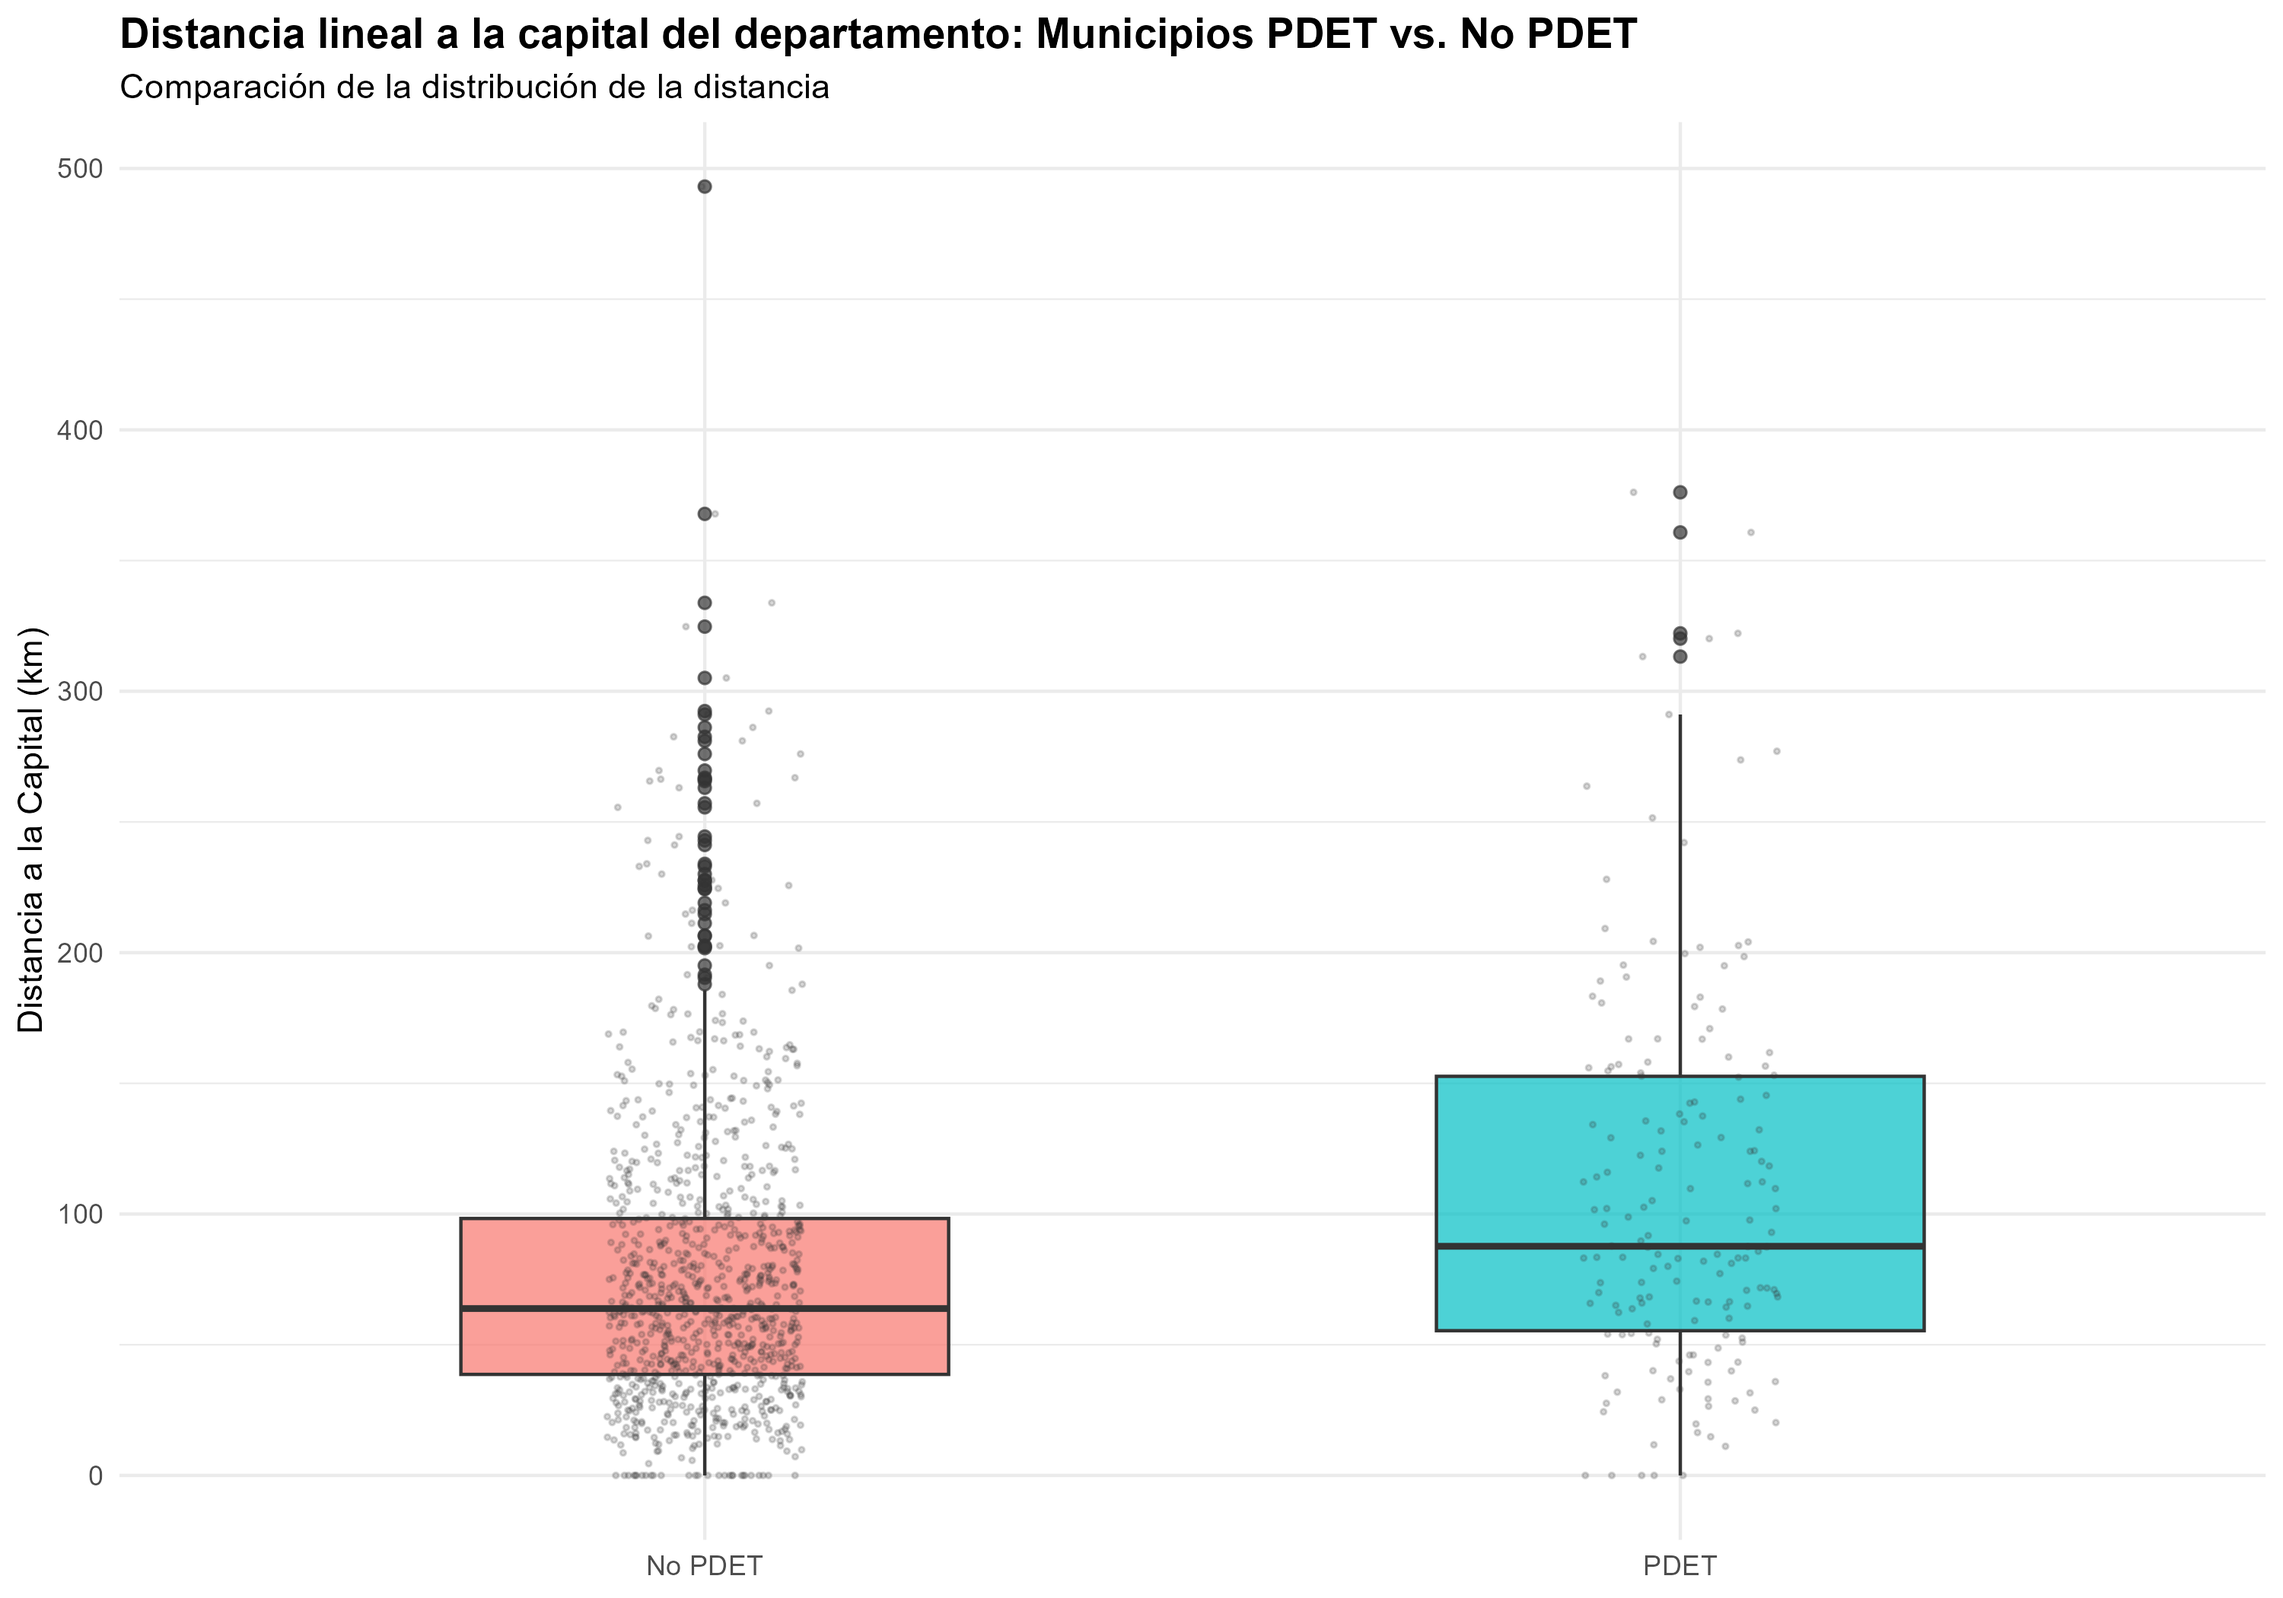
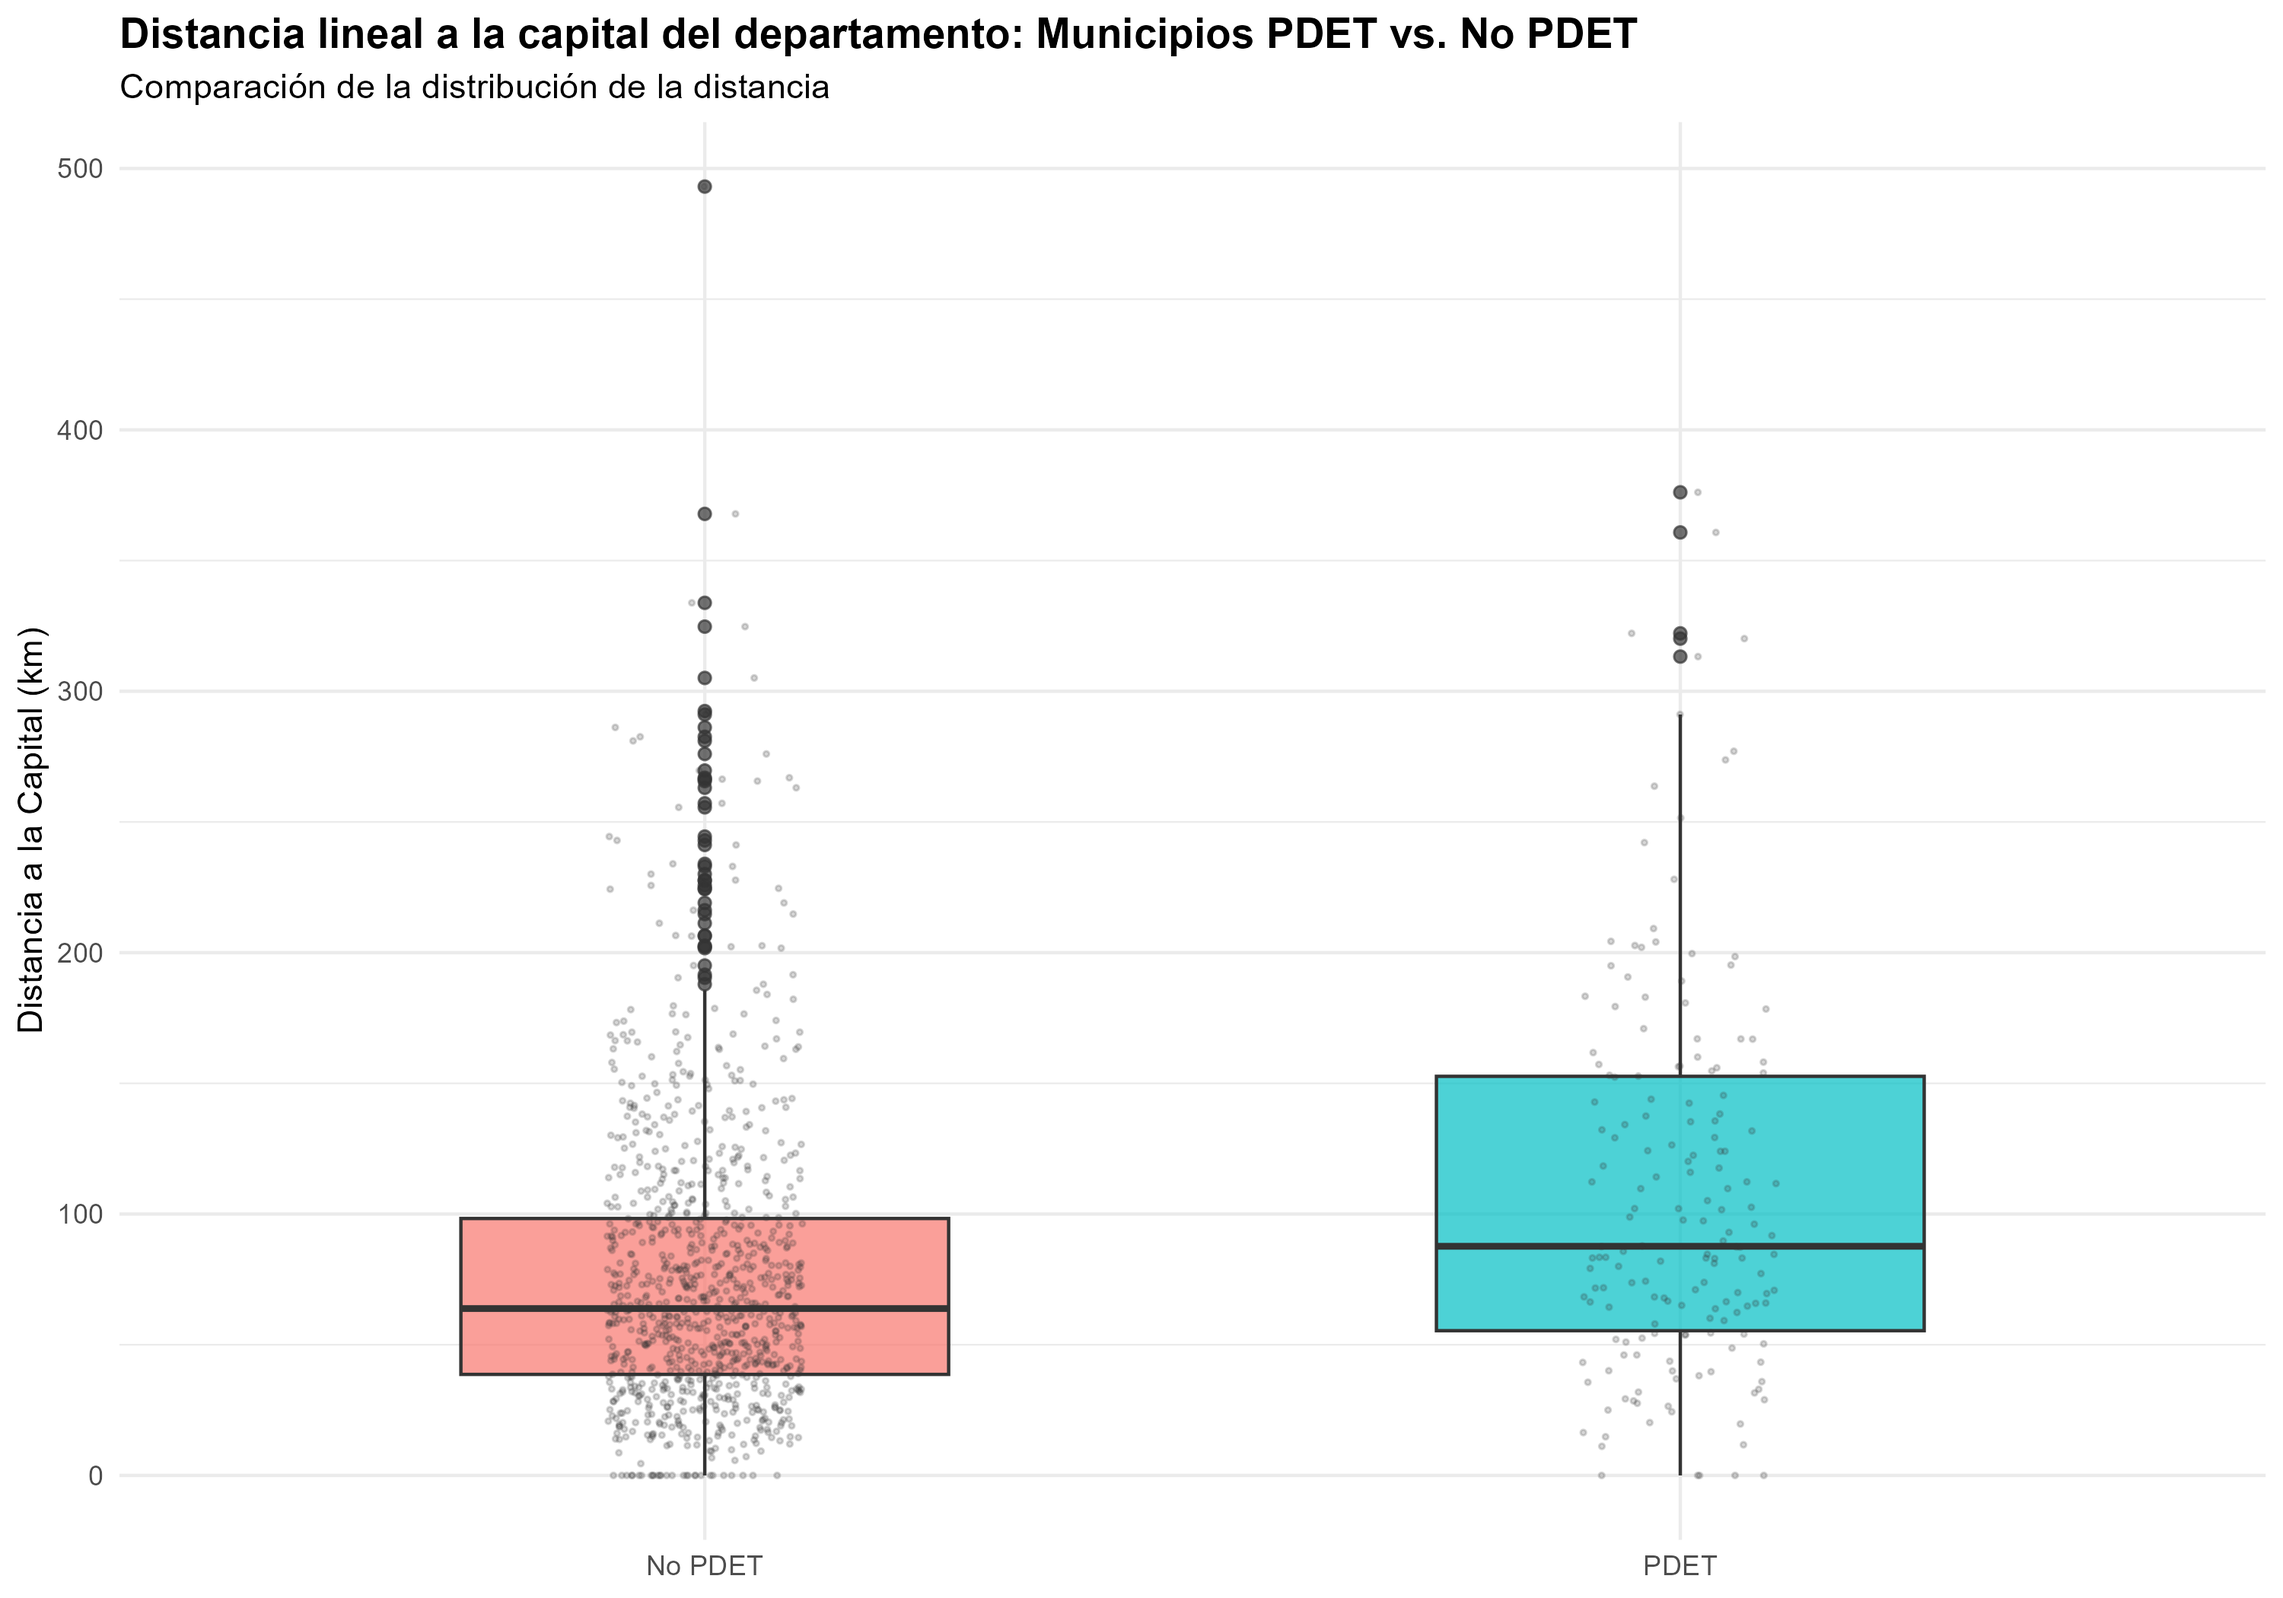
PSM, tendencias paralelas y regresión

Changed region(s): [[0.248, 0.619, 0.372, 0.9286], [0.682, 0.7738, 0.775, 0.8976], [0.713, 0.65, 0.775, 0.7429]]

diff --git a/Graficos-tablas/modelo_did_psm_comparativa.html b/Graficos-tablas/modelo_did_psm_comparativa.html
@@ -1,0 +1,46 @@
+
+<table style="text-align:center"><caption><strong>Impacto del PDET (DiD con PSM): Comparación de Modelos</strong></caption>
+<tr><td colspan="3" style="border-bottom: 1px solid black"></td></tr><tr><td style="text-align:left"></td><td colspan="2"><em>Dependent variable:</em></td></tr>
+<tr><td></td><td colspan="2" style="border-bottom: 1px solid black"></td></tr>
+<tr><td style="text-align:left"></td><td colspan="2">Log(1+Visitantes Extranjeros)</td></tr>
+<tr><td style="text-align:left"></td><td>Sin Controles</td><td>Con Controles</td></tr>
+<tr><td style="text-align:left"></td><td>(1)</td><td>(2)</td></tr>
+<tr><td colspan="3" style="border-bottom: 1px solid black"></td></tr><tr><td style="text-align:left">Tratamiento (PDET)</td><td></td><td></td></tr>
+<tr><td style="text-align:left"></td><td>(0.000)</td><td>(0.000)</td></tr>
+<tr><td style="text-align:left"></td><td></td><td></td></tr>
+<tr><td style="text-align:left">Post-Tratamiento (Post 2017)</td><td></td><td></td></tr>
+<tr><td style="text-align:left"></td><td>(0.000)</td><td>(0.000)</td></tr>
+<tr><td style="text-align:left"></td><td></td><td></td></tr>
+<tr><td style="text-align:left">PDET Post (ATT)</td><td></td><td>0.421</td></tr>
+<tr><td style="text-align:left"></td><td></td><td>(0.669)</td></tr>
+<tr><td style="text-align:left"></td><td></td><td></td></tr>
+<tr><td style="text-align:left">Población (Log)</td><td></td><td>0.035</td></tr>
+<tr><td style="text-align:left"></td><td></td><td>(0.025)</td></tr>
+<tr><td style="text-align:left"></td><td></td><td></td></tr>
+<tr><td style="text-align:left">Homicidios (Log)</td><td></td><td>0.644</td></tr>
+<tr><td style="text-align:left"></td><td></td><td>(0.706)</td></tr>
+<tr><td style="text-align:left"></td><td></td><td></td></tr>
+<tr><td style="text-align:left">Establecimientos (Log)</td><td></td><td>-0.002</td></tr>
+<tr><td style="text-align:left"></td><td></td><td>(0.007)</td></tr>
+<tr><td style="text-align:left"></td><td></td><td></td></tr>
+<tr><td style="text-align:left">Desempeño Fiscal</td><td></td><td>-0.0001<sup>*</sup></td></tr>
+<tr><td style="text-align:left"></td><td></td><td>(0.0001)</td></tr>
+<tr><td style="text-align:left"></td><td></td><td></td></tr>
+<tr><td style="text-align:left">Act. Primarias</td><td></td><td>0.001</td></tr>
+<tr><td style="text-align:left"></td><td></td><td>(0.001)</td></tr>
+<tr><td style="text-align:left"></td><td></td><td></td></tr>
+<tr><td style="text-align:left">Act. Secundarias</td><td></td><td>-0.0005<sup>**</sup></td></tr>
+<tr><td style="text-align:left"></td><td></td><td>(0.0001)</td></tr>
+<tr><td style="text-align:left"></td><td></td><td></td></tr>
+<tr><td style="text-align:left">Act. Terciarias</td><td>0.054</td><td>0.044</td></tr>
+<tr><td style="text-align:left"></td><td>(0.069)</td><td>(0.081)</td></tr>
+<tr><td style="text-align:left"></td><td></td><td></td></tr>
+<tr><td colspan="3" style="border-bottom: 1px solid black"></td></tr><tr><td style="text-align:left">Efectos Fijos de Municipio</td><td>Sí</td><td>Sí</td></tr>
+<tr><td style="text-align:left">Efectos Fijos de Año</td><td>Sí</td><td>Sí</td></tr>
+<tr><td style="text-align:left">Errores Estándar Agrupados</td><td>Región</td><td>Región</td></tr>
+<tr><td style="text-align:left">Observations</td><td>1,387</td><td>1,387</td></tr>
+<tr><td style="text-align:left">R<sup>2</sup></td><td>0.911</td><td>0.913</td></tr>
+<tr><td style="text-align:left">Adjusted R<sup>2</sup></td><td>0.876</td><td>0.877</td></tr>
+<tr><td style="text-align:left">Residual Std. Error</td><td>0.638 (df = 988)</td><td>0.635 (df = 981)</td></tr>
+<tr><td colspan="3" style="border-bottom: 1px solid black"></td></tr><tr><td style="text-align:left"><em>Note:</em></td><td colspan="2" style="text-align:right"><sup>*</sup>p<0.1; <sup>**</sup>p<0.05; <sup>***</sup>p<0.01</td></tr>
+</table>

diff --git a/Graficos-tablas/balance_matching_AER.html b/Graficos-tablas/balance_matching_AER.html
@@ -1,0 +1,14 @@
+
+<table style="text-align:center"><caption><strong>Balance de Covariables Antes y Después del Matching</strong></caption>
+<tr><td colspan="3" style="border-bottom: 1px solid black"></td></tr><tr><td>Variable</td><td>Sesgo Antes</td><td>Sesgo Después</td></tr>
+<tr><td colspan="3" style="border-bottom: 1px solid black"></td></tr><tr><td>distance</td><td>1.164</td><td>0.047</td></tr>
+<tr><td>log1p(poblacion)</td><td>0.285</td><td>0.021</td></tr>
+<tr><td>log1p(homicidios)</td><td>0.625</td><td>0.050</td></tr>
+<tr><td>log1p(t_establ_o)</td><td>1.062</td><td>0.049</td></tr>
+<tr><td>indrural</td><td>0.234</td><td>-0.007</td></tr>
+<tr><td>df_desemp_fisc</td><td>-0.374</td><td>0.036</td></tr>
+<tr><td>discapital</td><td>0.510</td><td>-0.024</td></tr>
+<tr><td>act_primarias</td><td>0.072</td><td>-0.011</td></tr>
+<tr><td>act_secundarias</td><td>-0.960</td><td>0.054</td></tr>
+<tr><td>act_terciarias</td><td>-0.931</td><td>0.029</td></tr>
+<tr><td colspan="3" style="border-bottom: 1px solid black"></td></tr></table>

diff --git a/Graficos-tablas/balance_matching_AER.tex b/Graficos-tablas/balance_matching_AER.tex
@@ -1,0 +1,23 @@
+
+\begin{table}[!htbp] \centering 
+  \caption{Balance de Covariables Antes y Después del Matching} 
+  \label{} 
+\footnotesize 
+\begin{tabular}{@{\extracolsep{5pt}} D{.}{.}{-3} D{.}{.}{-3} D{.}{.}{-3} } 
+\\[-1.8ex]\hline 
+\hline \\[-1.8ex] 
+\multicolumn{1}{c}{Variable} & \multicolumn{1}{c}{Sesgo Estandarizado Antes} & \multicolumn{1}{c}{Sesgo Estandarizado Después} \\ 
+\hline \\[-1.8ex] 
+\multicolumn{1}{c}{distance} & 1.164 & 0.047 \\ 
+\multicolumn{1}{c}{log1p(poblacion)} & 0.285 & 0.021 \\ 
+\multicolumn{1}{c}{log1p(homicidios)} & 0.625 & 0.050 \\ 
+\multicolumn{1}{c}{log1p(t\_establ\_o)} & 1.062 & 0.049 \\ 
+\multicolumn{1}{c}{indrural} & 0.234 & -0.007 \\ 
+\multicolumn{1}{c}{df\_desemp\_fisc} & -0.374 & 0.036 \\ 
+\multicolumn{1}{c}{discapital} & 0.510 & -0.024 \\ 
+\multicolumn{1}{c}{act\_primarias} & 0.072 & -0.011 \\ 
+\multicolumn{1}{c}{act\_secundarias} & -0.960 & 0.054 \\ 
+\multicolumn{1}{c}{act\_terciarias} & -0.931 & 0.029 \\ 
+\hline \\[-1.8ex] 
+\end{tabular} 
+\end{table} 
